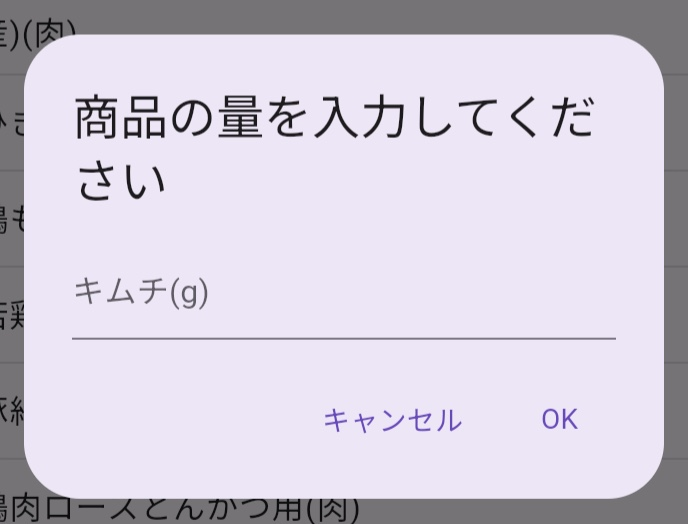
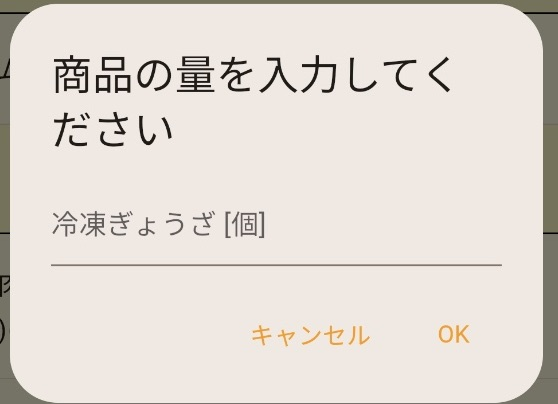
商品選択画面のヘルプ機能実装3

diff --git a/lib/ui/home/help/help.dart b/lib/ui/home/help/help.dart
@@ -13,12 +13,12 @@ class HelpDialog extends StatelessWidget {
           children: <Widget>[
             const Text('商品を選んで検索する手順を説明します。'),
             const Text(''),
-            const Text('① まずは商品一覧から購入したい商品を選んでください。'),
+            const Text('① まずは商品一覧から検索したい商品を選んでください。'),
             Image.asset(
               'images/merch_help1.jpeg',
             ),
             const Text(''),
-            const Text('② 商品をクリックすると下のような画面が表示されるので、その商品の購入したい量を入力してください。'),
+            const Text('② 商品をクリックすると下のような画面が表示されるので、その商品の検索したい量を入力してください。'),
             Image.asset(
               'images/merch_help2.jpeg',
             ),

diff --git a/lib/ui/home/home.dart b/lib/ui/home/home.dart
@@ -34,7 +34,7 @@ class Home extends ConsumerWidget {
           if (index == 0)
             IconButton(
               icon: const Icon(Icons.help),
-              color: Colors.purple.withOpacity(0.6),
+              color: Colors.deepOrange.withOpacity(0.8),
               onPressed: () {
                 _showHelpDialog(context);
               },
